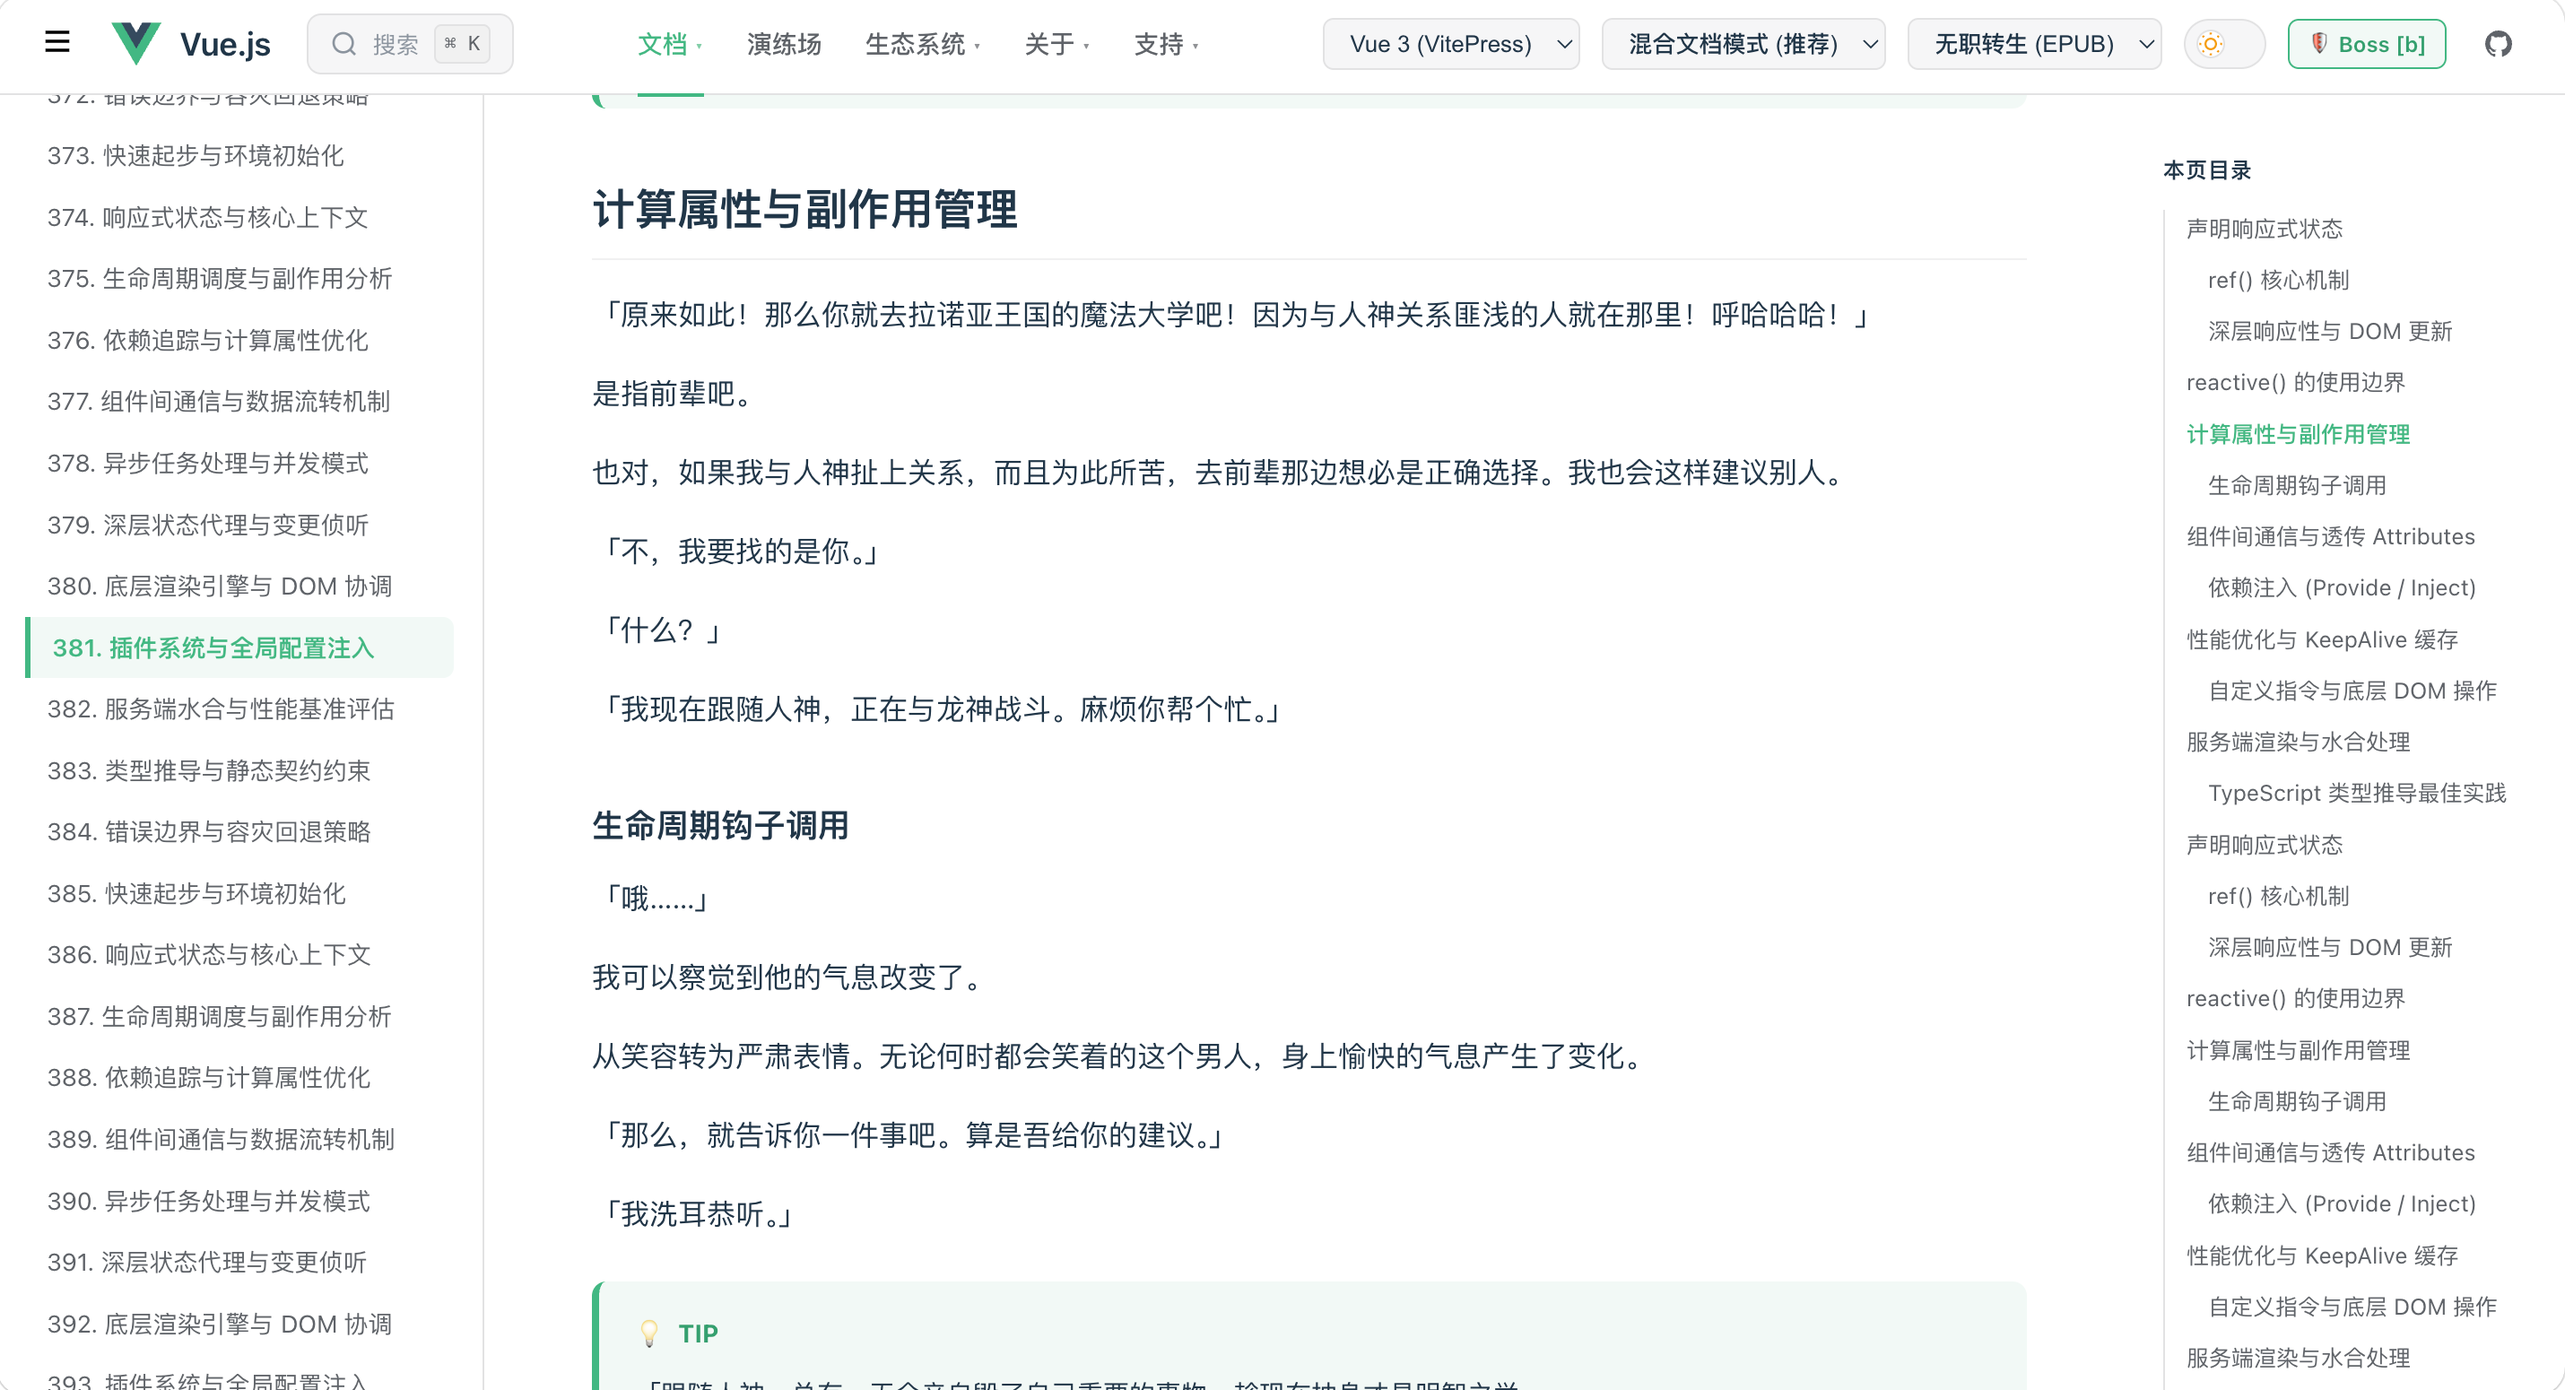
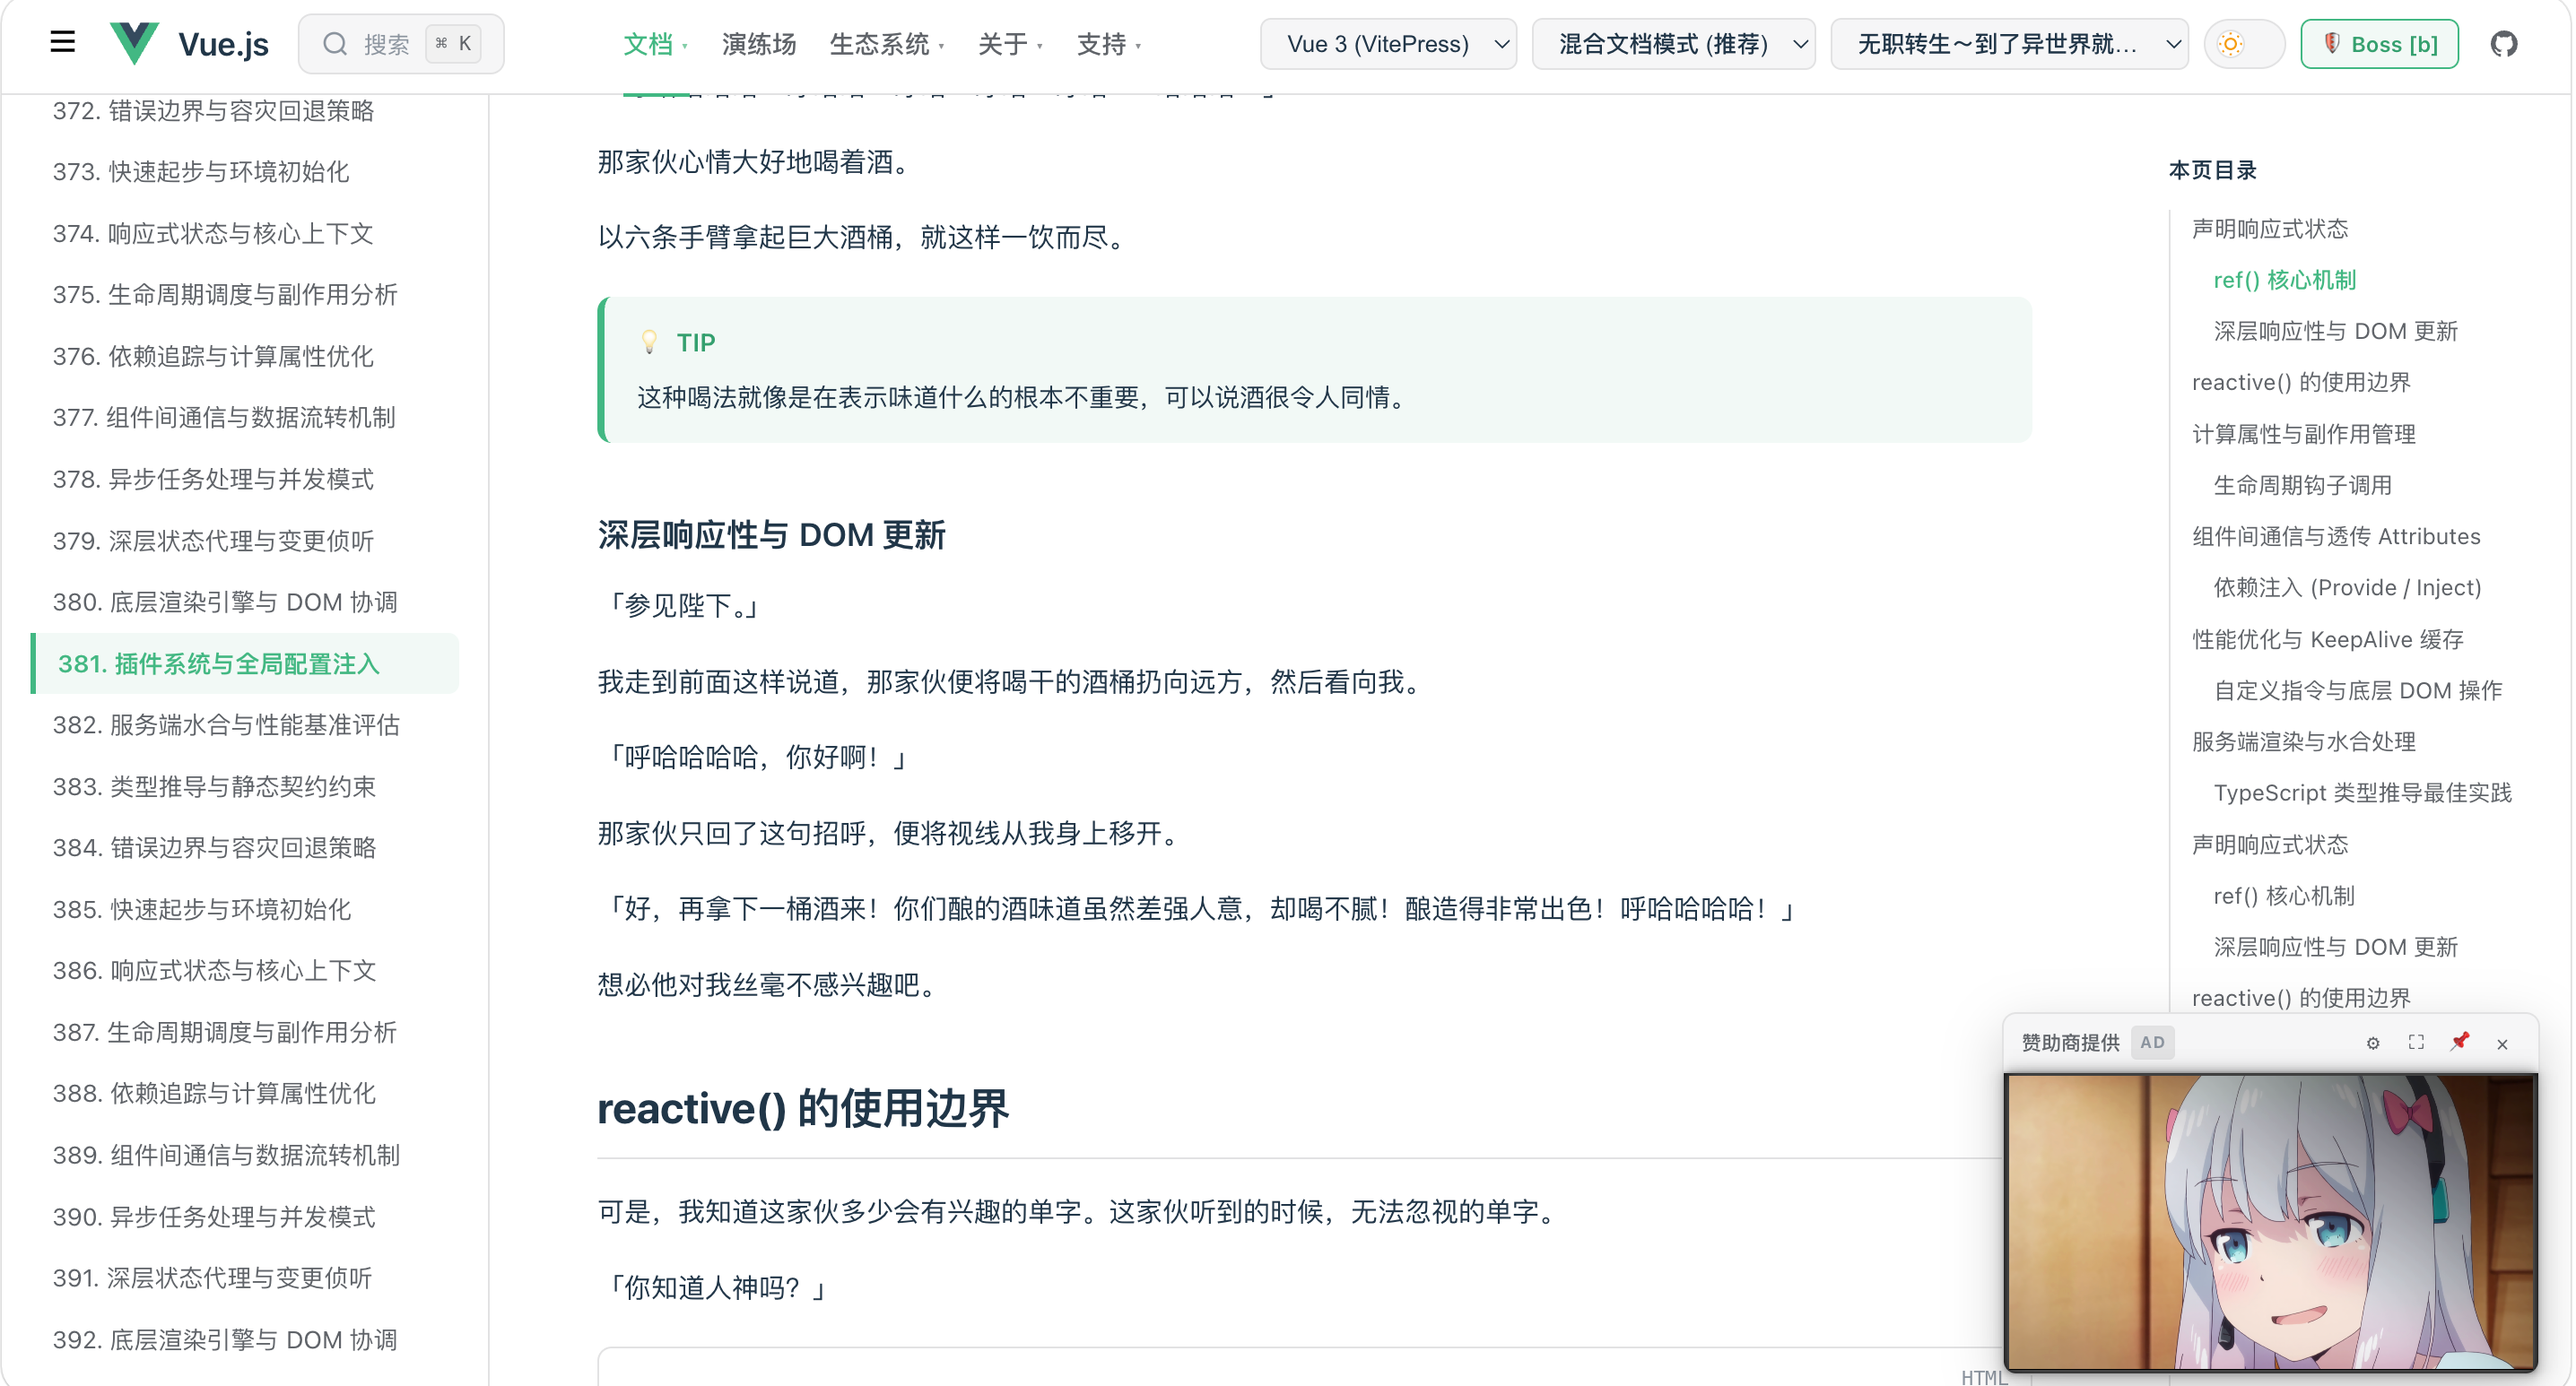
docs: update README with web fish mode (demo2.png) and web boss decoy mode (demo3.png) showcases

diff --git a/README.md b/README.md
@@ -6,14 +6,20 @@
 </p>
 
 <p align="center">
-  <b>🌐 网页模式：1:1 高仿真官方技术文档</b><br>
-  <img src="demo2.png" alt="fishreader 网页文档演示效果" width="85%">
+  <b>🌐 网页摸鱼模式：1:1 高仿真官方技术文档 + 赞助位视频播放</b><br>
+  <img src="demo2.png" alt="fishreader 网页文档摸鱼模式演示效果" width="85%">
+</p>
+
+<p align="center">
+  <b>🛡 网页老板模式：瞬间切为真实官方技术文档 + 霓虹流光垃圾广告战术掩护</b><br>
+  <img src="demo3.png" alt="fishreader 网页老板模式演示效果" width="85%">
 </p>
 
 为程序员量身定制的摸鱼小说阅读器。支持**终端 TUI** 与 **浏览器 Web** 双重高拟真伪装：
 - **终端模式**：主体持续滚动英文代码 Agent / Vite / npm / Git 日志，小说只占一小块区域伪装成工作笔记。
-- **网页模式**：1:1 像素级复刻主流官方技术文档（Vue 3 / React / Rust / Python），小说智能排版载入文档正文、提示框与代码块。
-- **老板键脱险**：终端按 `b` 一键隐藏小说变全屏日志；网页按 `b`/`Esc` 瞬间切为真实官方技术文档。
+- **网页摸鱼模式**：1:1 像素级复刻主流官方技术文档（Vue 3 / React / Rust / Python），小说智能排版载入文档正文、提示框与代码块，右下角赞助位支持摸鱼看视频。
+- **网页老板模式**：一键脱险，正文瞬间切为 100% 真实官方技术文档，视频自动暂停并覆上引人注目的流光垃圾广告，实现视线转移反侦察。
+- **双向互通**：终端与网页端阅读进度实时自动同步，无缝切换。
 
 > ⚠ 工具本身只做本地文件解析与展示，不含任何规避监控/公司策略的能力。请自行评估使用场景。
 
